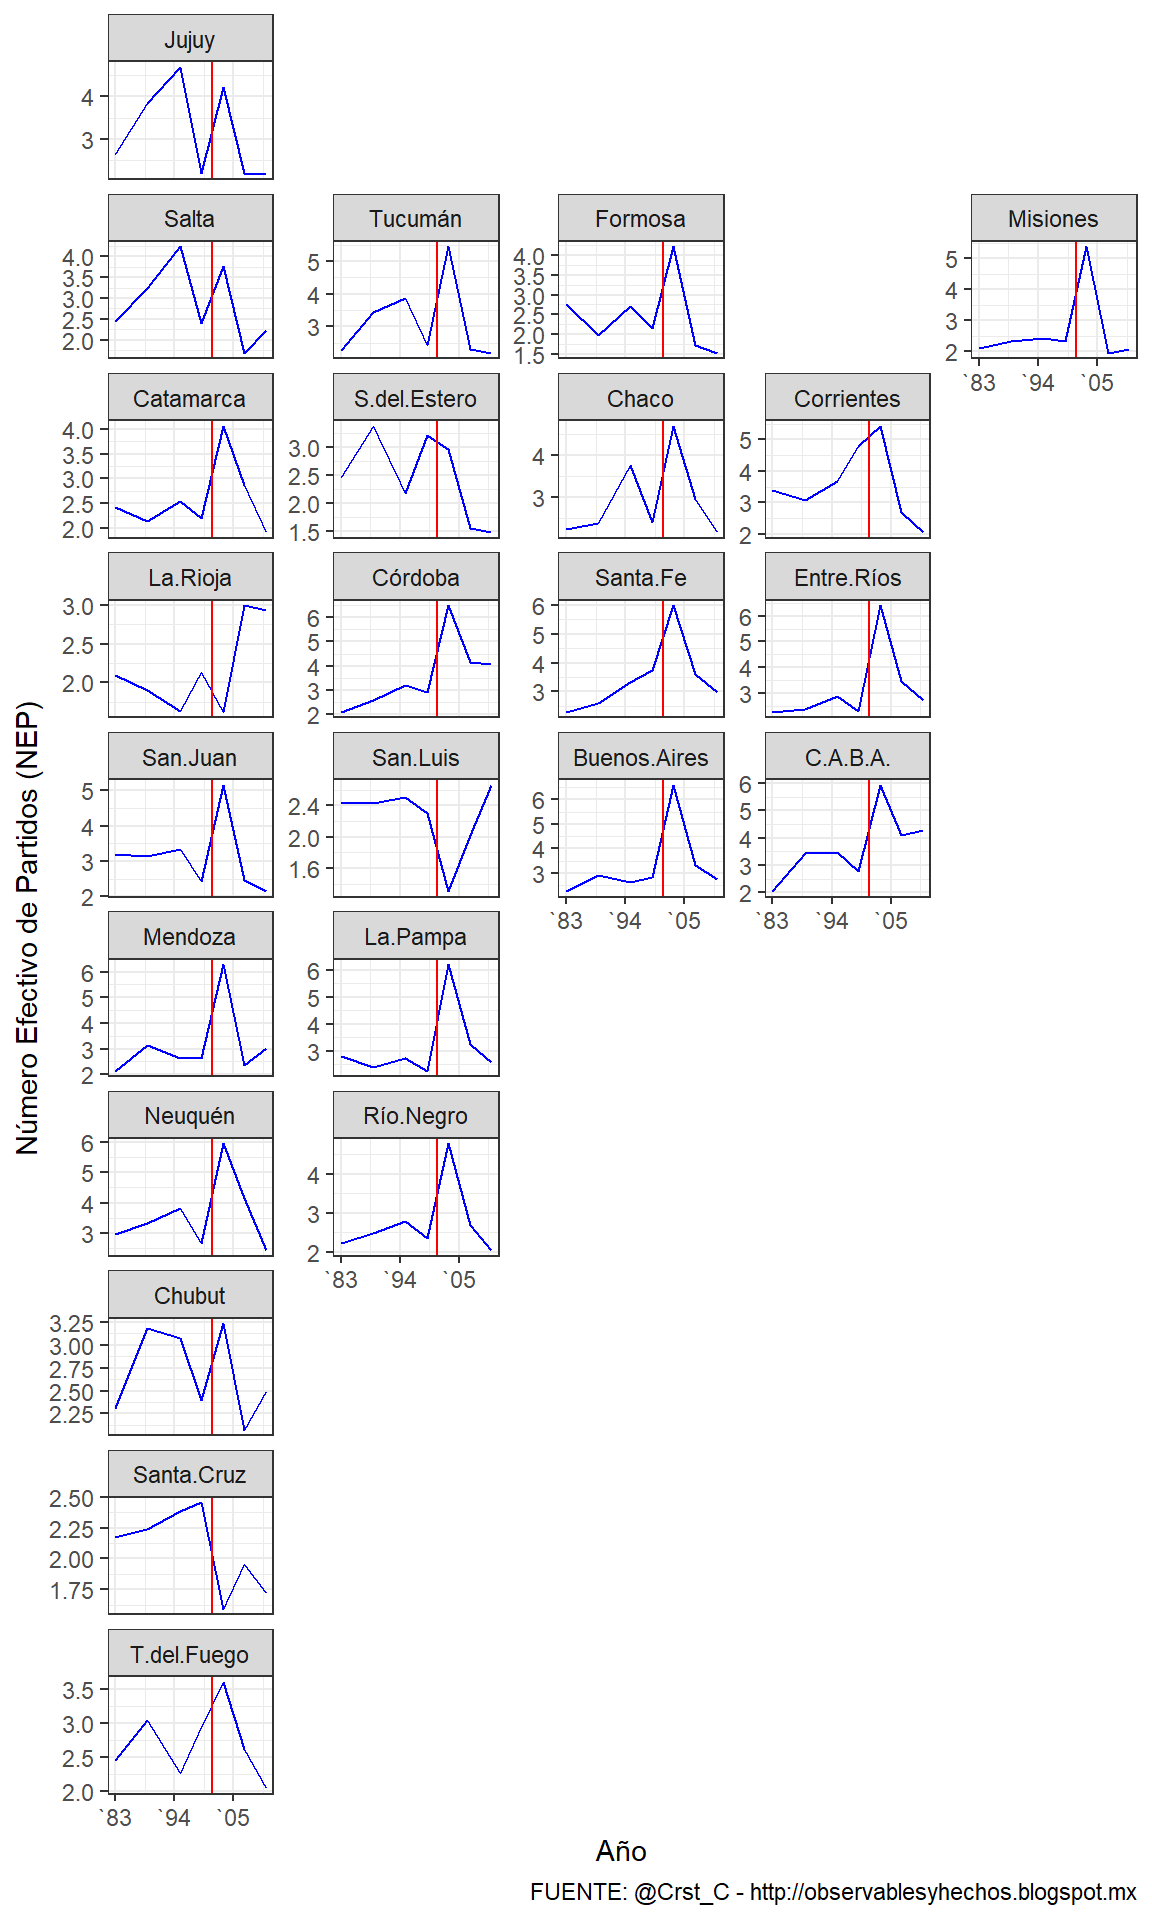
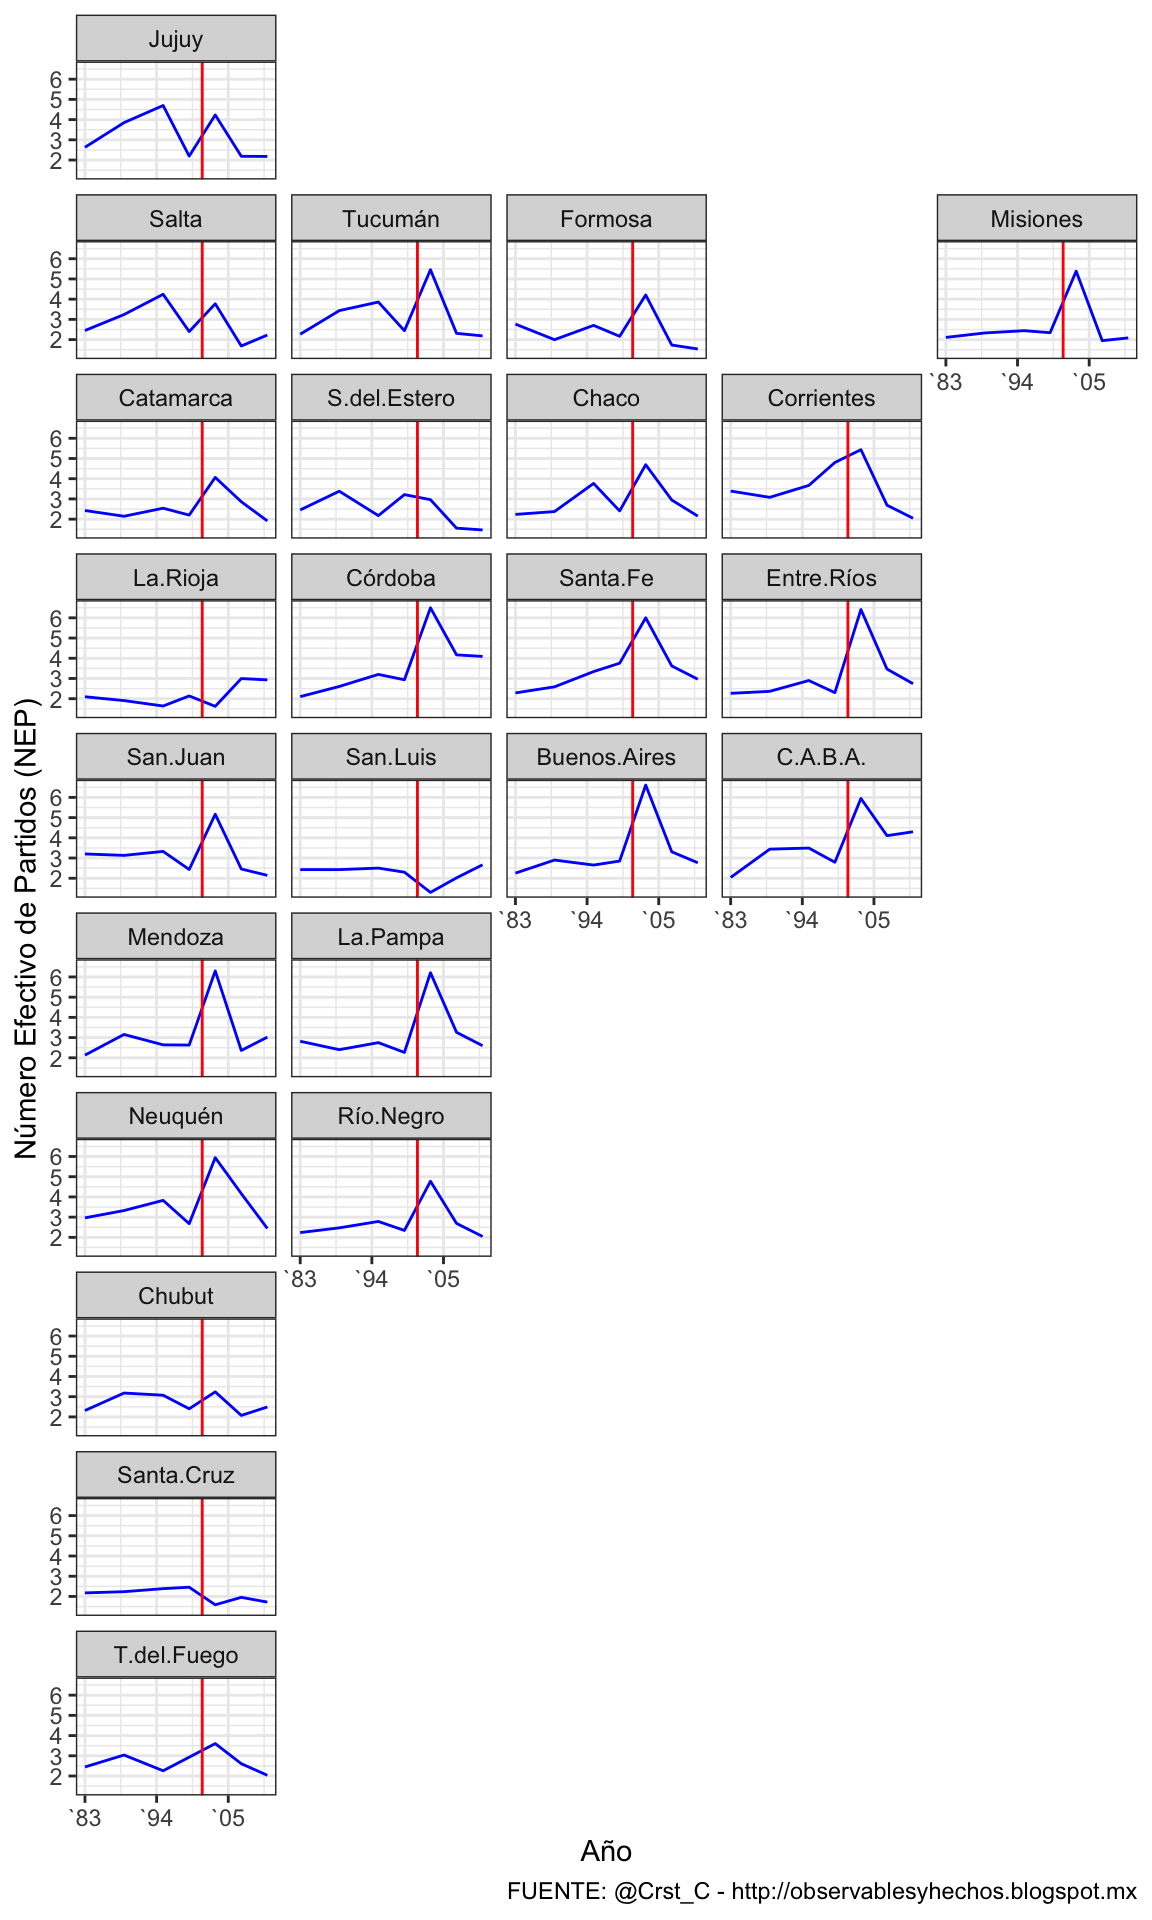
Site rebuild Sun Jan 27 20:36:58 -03 2019

Changed region(s): [[0.0, 0.0, 1.0, 0.9688], [0.4375, 0.9375, 0.9688, 1.0]]

diff --git a/2018/01/21/geofacetear/index.html b/2018/01/21/geofacetear/index.html
@@ -3,7 +3,7 @@
   <head>
     <meta charset="utf-8">
 <meta name="viewport" content="width=device-width, initial-scale=1.0">
-<meta name="generator" content="Hugo 0.53" />
+<meta name="generator" content="Hugo 0.51" />
 
 
 <title>GeofaceteAR - TuQmanoR</title>
@@ -88,7 +88,7 @@
 <li><p>cada unidad geográfica tiene asignada la misma proporción espacial</p></li>
 </ul>
 <div id="numero-efectivo-de-partidos-nep1" class="section level3">
-<h3>Número Efectivo de Partidos (NEP)<a href="#fn1" class="footnote-ref" id="fnref1"><sup>1</sup></a></h3>
+<h3>Número Efectivo de Partidos (NEP)<a href="#fn1" class="footnoteRef" id="fnref1"><sup>1</sup></a></h3>
 <p>Vamos a usar datos de <em>NEP</em> en base a el trabajo de <a href="http://gvptsites.umd.edu/calvo/calvo-escolar-final-completo-Mayo-30.05.pdf">Calvo &amp; Escolar(2005)</a> y el <em>Atlas Electoral</em> de <a href="http://twitter.com/andy_tow">@andy_tow</a>. El indicador computa la proporción de votos que el partido <span class="math inline">\(_i\)</span> obtiene sobre el total de votos emitidos:</p>
 <p><span class="math inline">\(\LARGE N_{2}=\frac{1}{\sum_{i}^{n}p_{i}^2}\)</span></p>
 <p>Las fuetes origniales fueron <em>tucumaneadas</em> a <a href="http://twitter.com/Crst_C/">@Crst_C</a> y están disponibles en <a href="http://observablesyhechos.blogspot.com/2014/08/numero-efectivo-de-partidos-en.html">este post</a>.</p>
@@ -122,7 +122,7 @@ grid_preview(argentina_grid2)</code></pre>
 ggplot(nep.prov, aes(year, NEPp)) +
   geom_line(color = &quot;blue&quot;) +
   #facet_wrap(~name_es) + ESTA ES LA LINEA QUE REEMPLAZAMOS DEL GRAIFCO ANTERIOR
-  facet_geo(~ name_es, grid = argentina_grid2, scales = &quot;free_y&quot;) +  # ESTA ES LA LINA PARA ORDENAR LA GRILLA COMO SI FUERA UN MAPA
+  facet_geo(~ name_es, grid = argentina_grid2) +  # ESTA ES LA LINA PARA ORDENAR LA GRILLA COMO SI FUERA UN MAPA
   ylab(&quot;Número Efectivo de Partidos (NEP)&quot;) + 
   scale_x_continuous(name = &quot;Año&quot;, 
                      breaks = c(1983, 1994, 2005), 
@@ -135,7 +135,7 @@ ggplot(nep.prov, aes(year, NEPp)) +
 <div class="footnotes">
 <hr />
 <ol>
-<li id="fn1"><p><em>“es el número hipotético de partidos de igual tamaño que tendrían el mismo efecto total en la fraccionalización del sistema que el número ‘real’ [actual] de tamaño desigual”</em> <a href="https://en.wikipedia.org/wiki/Effective_number_of_parties"><em>Laakso &amp; Taagepera (1979)</em></a><a href="#fnref1" class="footnote-back">↩</a></p></li>
+<li id="fn1"><p><em>“es el número hipotético de partidos de igual tamaño que tendrían el mismo efecto total en la fraccionalización del sistema que el número ‘real’ [actual] de tamaño desigual”</em> <a href="https://en.wikipedia.org/wiki/Effective_number_of_parties"><em>Laakso &amp; Taagepera (1979)</em></a><a href="#fnref1">↩</a></p></li>
 </ol>
 </div>
 

diff --git a/2018/01/17/bienvenidos-a-tuqmanor/index.html b/2018/01/17/bienvenidos-a-tuqmanor/index.html
@@ -3,7 +3,7 @@
   <head>
     <meta charset="utf-8">
 <meta name="viewport" content="width=device-width, initial-scale=1.0">
-<meta name="generator" content="Hugo 0.53" />
+<meta name="generator" content="Hugo 0.51" />
 
 
 <title>Bienvenidos a TuQmanoR - TuQmanoR</title>

diff --git a/tags/r-markdown-ggplot-geo/index.html b/tags/r-markdown-ggplot-geo/index.html
@@ -3,7 +3,7 @@
   <head>
     <meta charset="utf-8">
 <meta name="viewport" content="width=device-width, initial-scale=1.0">
-<meta name="generator" content="Hugo 0.53" />
+<meta name="generator" content="Hugo 0.51" />
 
 
 <title>R Markdown Ggplot Geo - TuQmanoR</title>

diff --git a/categories/index.html b/categories/index.html
@@ -3,7 +3,7 @@
   <head>
     <meta charset="utf-8">
 <meta name="viewport" content="width=device-width, initial-scale=1.0">
-<meta name="generator" content="Hugo 0.53" />
+<meta name="generator" content="Hugo 0.51" />
 
 
 <title>Categories - TuQmanoR</title>

diff --git a/tags/r-markdown/index.html b/tags/r-markdown/index.html
@@ -3,7 +3,7 @@
   <head>
     <meta charset="utf-8">
 <meta name="viewport" content="width=device-width, initial-scale=1.0">
-<meta name="generator" content="Hugo 0.53" />
+<meta name="generator" content="Hugo 0.51" />
 
 
 <title>R Markdown - TuQmanoR</title>

diff --git a/categories/r-dataviz/index.html b/categories/r-dataviz/index.html
@@ -3,7 +3,7 @@
   <head>
     <meta charset="utf-8">
 <meta name="viewport" content="width=device-width, initial-scale=1.0">
-<meta name="generator" content="Hugo 0.53" />
+<meta name="generator" content="Hugo 0.51" />
 
 
 <title>R Dataviz - TuQmanoR</title>

diff --git a/about/index.html b/about/index.html
@@ -3,7 +3,7 @@
   <head>
     <meta charset="utf-8">
 <meta name="viewport" content="width=device-width, initial-scale=1.0">
-<meta name="generator" content="Hugo 0.53" />
+<meta name="generator" content="Hugo 0.51" />
 
 
 <title>About - TuQmanoR</title>

diff --git a/post/index.html b/post/index.html
@@ -3,7 +3,7 @@
   <head>
     <meta charset="utf-8">
 <meta name="viewport" content="width=device-width, initial-scale=1.0">
-<meta name="generator" content="Hugo 0.53" />
+<meta name="generator" content="Hugo 0.51" />
 
 
 <title>Posts - TuQmanoR</title>

diff --git a/tags/index.html b/tags/index.html
@@ -3,7 +3,7 @@
   <head>
     <meta charset="utf-8">
 <meta name="viewport" content="width=device-width, initial-scale=1.0">
-<meta name="generator" content="Hugo 0.53" />
+<meta name="generator" content="Hugo 0.51" />
 
 
 <title>Tags - TuQmanoR</title>

diff --git a/categories/r/index.html b/categories/r/index.html
@@ -3,7 +3,7 @@
   <head>
     <meta charset="utf-8">
 <meta name="viewport" content="width=device-width, initial-scale=1.0">
-<meta name="generator" content="Hugo 0.53" />
+<meta name="generator" content="Hugo 0.51" />
 
 
 <title>R - TuQmanoR</title>

diff --git a/index.html b/index.html
@@ -3,7 +3,7 @@
   <head>
     <meta charset="utf-8">
 <meta name="viewport" content="width=device-width, initial-scale=1.0">
-<meta name="generator" content="Hugo 0.53" />
+<meta name="generator" content="Hugo 0.51" />
 
 
 <title>TuQmanoR</title>
